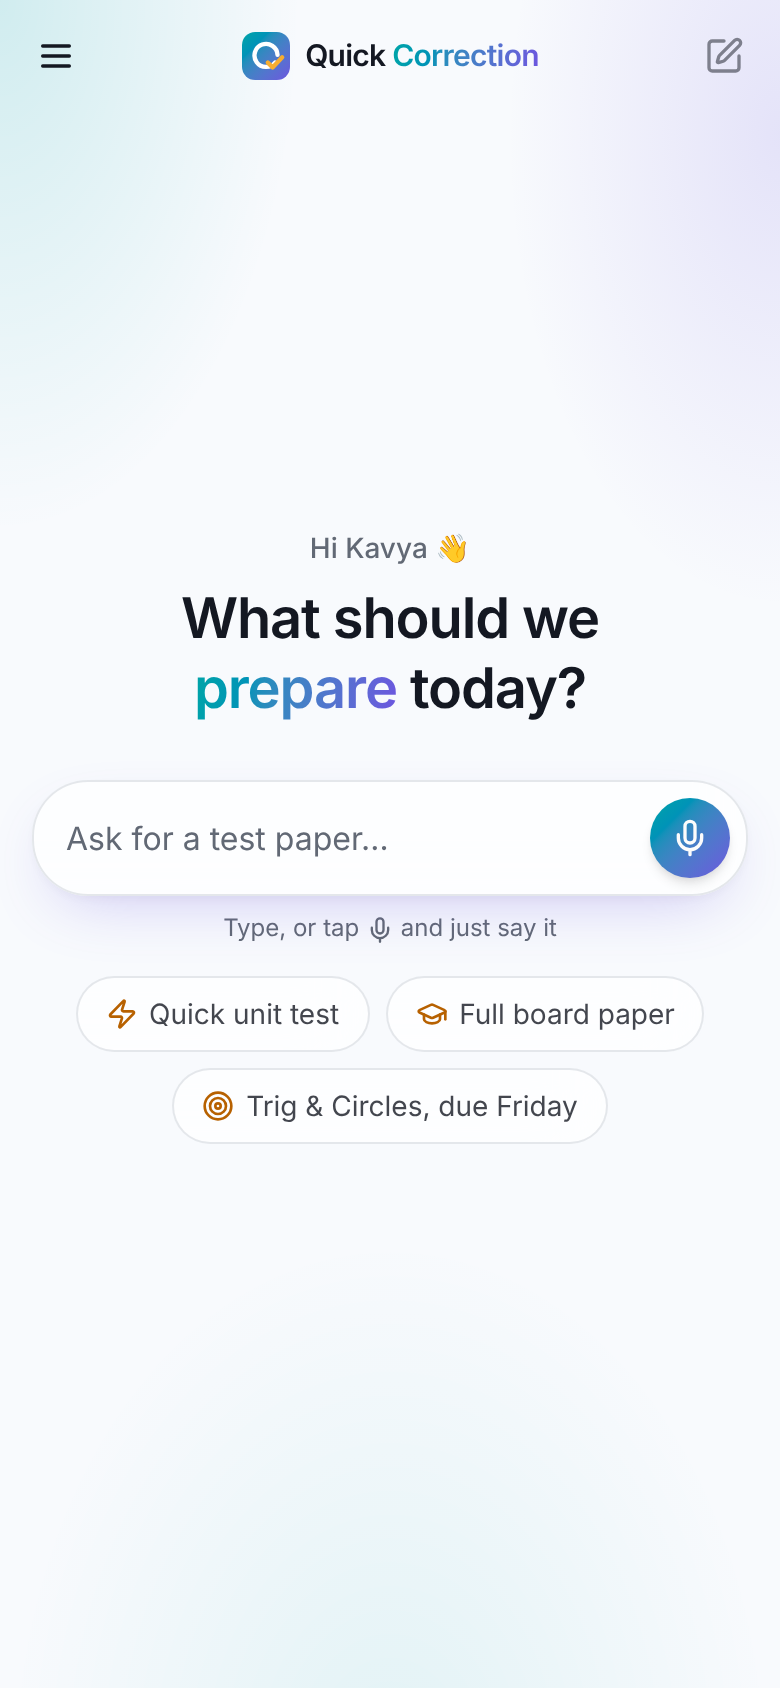
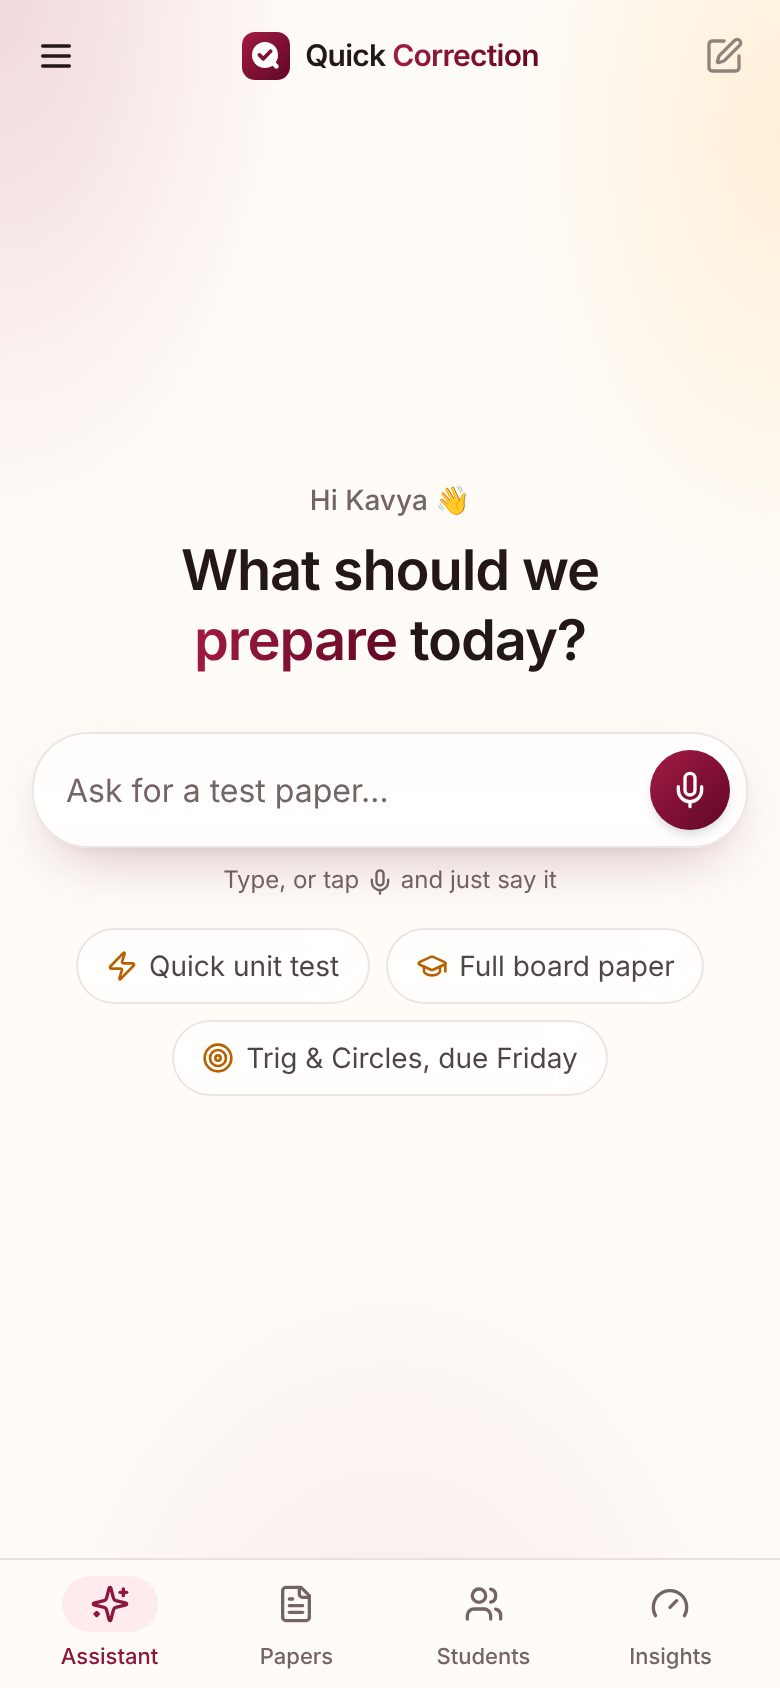
Teacher assistant: phone tab bar, hidden while recording
Claude-Session: https://claude.ai/code/session_01Ukf9S3SeSkNRD7pdqf2qXr

diff --git a/src/web/features/demo/components/TeacherChat.tsx b/src/web/features/demo/components/TeacherChat.tsx
@@ -406,6 +406,14 @@ export function TeacherChat() {
   const [menuOpen, setMenuOpen] = React.useState(false);
   const [recording, setRecording] = React.useState(false);
   const [fromVoice, setFromVoice] = React.useState(false);
+
+  // While recording, the phone tab bar steps aside (see .qc-tabbar in brand.css).
+  React.useEffect(() => {
+    const root = document.documentElement;
+    if (recording) root.dataset.qcRecording = '';
+    else delete root.dataset.qcRecording;
+    return () => { delete root.dataset.qcRecording; };
+  }, [recording]);
   const draft = React.useRef<Draft>(memory.draft);
   const active = React.useRef<string | undefined>(memory.active);
   const end = React.useRef<HTMLDivElement>(null);
@@ -715,7 +723,7 @@ export function TeacherChat() {
         </header>
 
         {empty ? (
-          <div className="flex flex-1 flex-col items-center justify-center px-4 pb-16">
+          <div className="flex flex-1 flex-col items-center justify-center px-4 pb-28 lg:pb-16">
             <div className="w-full max-w-2xl">
               <p className="mb-2 text-center text-sm font-medium text-muted-foreground">Hi Kavya 👋</p>
               <h1 className="mb-7 text-center text-[1.75rem] font-semibold leading-tight tracking-[-0.02em] sm:text-4xl">What should we <span className="mm-gradient-text">prepare</span> today?</h1>
@@ -802,7 +810,7 @@ export function TeacherChat() {
                 <div ref={end} />
               </div>
             </div>
-            <div className="mx-auto w-full max-w-2xl shrink-0 px-3 pb-[max(0.75rem,env(safe-area-inset-bottom))] pt-2">
+            <div className="qc-above-tabs mx-auto w-full max-w-2xl shrink-0 px-3 pb-[calc(4.75rem+env(safe-area-inset-bottom))] pt-2 lg:pb-[max(0.75rem,env(safe-area-inset-bottom))]">
               {composer}
               {voiceHint || <p className="mt-2 text-center text-[11px] text-muted-foreground">Prototype · voice and replies are simulated</p>}
             </div>

diff --git a/src/web/features/demo/components/DemoShell.tsx b/src/web/features/demo/components/DemoShell.tsx
@@ -7,7 +7,8 @@
  *
  * Phone first: below `lg` the sidebar becomes a bottom tab bar, so every
  * section is one thumb-tap away. The homepage (/demo) and the teacher's chat
- * assistant (/demo/school) render bare — each has its own header.
+ * assistant (/demo/school) render bare — each has its own header; the
+ * assistant still gets the phone tab bar.
  *
  * Everything inside is `print:hidden` except the page body, so a paper opened
  * in the shell prints as a clean question paper.
@@ -124,7 +125,7 @@ function BottomNav() {
   return (
     <nav
       aria-label="Sections"
-      className="fixed inset-x-0 bottom-0 z-30 flex border-t border-border bg-background/95 px-2 pb-[env(safe-area-inset-bottom)] backdrop-blur print:hidden lg:hidden"
+      className="qc-tabbar fixed inset-x-0 bottom-0 z-30 flex border-t border-border bg-background/95 px-2 pb-[env(safe-area-inset-bottom)] backdrop-blur print:hidden lg:hidden"
     >
       {NAV[role].map((item) => <BottomTab key={item.to} {...item} />)}
     </nav>
@@ -185,7 +186,7 @@ function Frame() {
 
   if (pathname === '/demo' || pathname === '/demo/') return <Outlet />;
   // The teacher's assistant is a full-screen chat with its own slim top bar.
-  if (pathname === '/demo/school' || pathname === '/demo/school/') return <><RoleFromUrl /><Outlet /></>;
+  if (pathname === '/demo/school' || pathname === '/demo/school/') return <><RoleFromUrl /><Outlet /><BottomNav /></>;
 
   return (
     <div className="flex min-h-screen bg-background text-foreground">

diff --git a/src/web/styles/brand.css b/src/web/styles/brand.css
@@ -312,3 +312,8 @@
   .mm-marquee-track { animation: none; }
   .mm-marquee-track > ul[aria-hidden] { display: none; }
 }
+
+/* Teacher assistant: the phone tab bar hides while a voice message is recording,
+ * and the composer drops down into the space it leaves. */
+html[data-qc-recording] .qc-tabbar { display: none; }
+html[data-qc-recording] .qc-above-tabs { padding-bottom: max(0.75rem, env(safe-area-inset-bottom)); }
